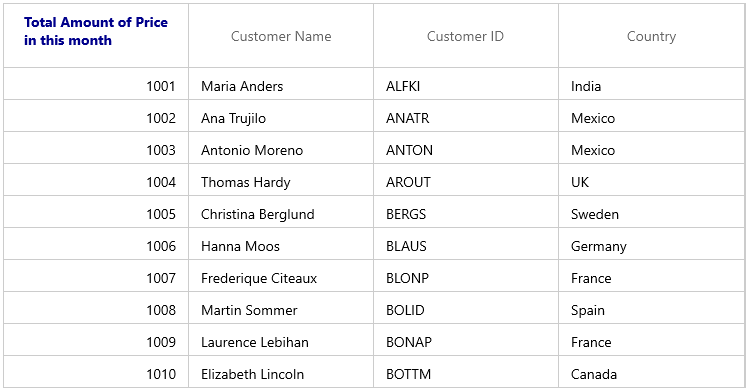
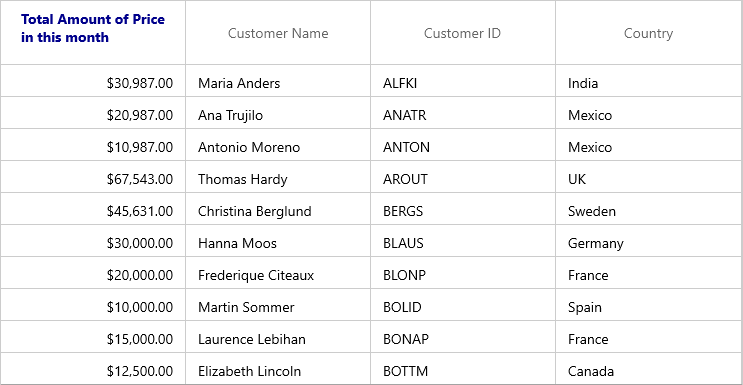
Modified the content and code changes

diff --git a/winui/DataGrid/Row-Height-Customization.md b/winui/DataGrid/Row-Height-Customization.md
@@ -84,7 +84,7 @@ You can change the row height in on-demand based on the row index or row data us
 {% highlight c# %}
 this.sfDataGrid.QueryRowHeight += SfDataGrid_QueryRowHeight;
 
-void dataGrid_QueryRowHeight(object sender, QueryRowHeightEventArgs e)
+void SfDataGrid_QueryRowHeight(object sender, QueryRowHeightEventArgs e)
 {
     if (e.RowIndex == 1) //Sets Height to the first row.
     {
@@ -101,7 +101,7 @@ void dataGrid_QueryRowHeight(object sender, QueryRowHeightEventArgs e)
 
 1. This event is not supported for `DetailsViewGrid`.
 
-## Fit the Row Height based on its content
+## Fit the row height based on its content
 
 You can fit the row height based on its content in `QueryRowHeight` event handler using [GetAutoRowHeight](https://help.syncfusion.com/cr/winui/Syncfusion.UI.Xaml.DataGrid.GridColumnSizer.html#Syncfusion_UI_Xaml_DataGrid_GridColumnSizer_GetAutoRowHeight_System_Int32_Syncfusion_UI_Xaml_DataGrid_GridRowSizingOptions_System_Double__System_Boolean_) method. This improves the readability of the content and it does not affect the loading performance of the SfDataGrid as the `QueryRowHeight` event triggered for rows in on-demand.
 
@@ -158,7 +158,7 @@ Here, row heights are customized based on the large text content.
  
 2. [CanIncludeHiddenColumns](https://help.syncfusion.com/cr/winui/Syncfusion.UI.Xaml.DataGrid.GridRowSizingOptions.html#Syncfusion_UI_Xaml_DataGrid_GridRowSizingOptions_CanIncludeHiddenColumns) – If you want to consider the hidden columns while calculating row height, you can set `GridRowSizingOptions.CanIncludeHiddenColumns` as `true`.
 
-### Calculate Height based on certain columns
+### Calculate height based on certain columns
 
 You can exclude columns from row height calculation using `GridRowSizingOptions.ExcludeColumns`. This will helps to reduce the count of loop run for height calculation for better performance.
 
@@ -194,9 +194,9 @@ private void SfDataGrid_QueryRowHeight(object sender, QueryRowHeightEventArgs e)
 
 Here `CustomerID` and `Country` columns are excluded from height calculation and the row height is calculated based on `CustomerName` column only.
  
-![AutoFit RowHeight for specific columns Image in WinUI datagrid](Row-Height-Customization_images/Row-Height-Customization_img4.png)
+![AutoFit RowHeight for specific columns Image in WinUI DataGrid](Row-Height-Customization_images/Row-Height-Customization_img4.png)
 
-## Reset Row Height at runtime
+## Reset row height at runtime
 
 You can reset height of the particular or all rows in View at runtime to get the updated height from `QueryRowHeight` event handler using below methods. You have to call [InvalidateMeasureInfo](https://help.syncfusion.com/cr/winui/Syncfusion.UI.Xaml.DataGrid.VisualContainer.html#Syncfusion_UI_Xaml_DataGrid_VisualContainer_InvalidateMeasureInfo) method of `VisualContainer` to refresh the View.
  
@@ -227,55 +227,17 @@ visualContainer.InvalidateMeasureInfo();
 {% endhighlight %}
 {% endtabs %}
 
-
-### Update Row Height while editing
-
-You can set the height of the row based on the content after editing by refreshing the row height in [SfDataGrid.CurrentCellEndEdit](https://help.syncfusion.com/cr/winui/Syncfusion.UI.Xaml.DataGrid.SfDataGrid.html#Syncfusion_UI_Xaml_DataGrid_SfDataGrid_CurrentCellEndEdit) event.
-
-You can call the `InvalidateRowHeight` method in `CurrentCellEndEdit` event to reset the particular row height. Then call the `InvalidateMeasureInfo` method of `VisualContainer` to refresh the view. Now the `QueryRowHeight` event is called again for edited row alone and row height is calculated based on edited content.
-
- 
-{% tabs %}
-{% highlight c# %}
-
-GridRowSizingOptions gridRowResizingOptions = new GridRowSizingOptions();
-
-//To get the calculated height from GetAutoRowHeight method.    
-double autoHeight = double.NaN;        
-
-this.sfDataGrid.QueryRowHeight += SfDataGrid_QueryRowHeight;
-this.sfDataGrid.CurrentCellEndEdit += SfDataGrid_CurrentCellEndEdit;
-
-private void SfDataGrid_CurrentCellEndEdit(object sender, CurrentCellEndEditEventArgs e)
-{
-    var visualContainer = this.sfDataGrid.GetType().GetProperty("VisualContainer", System.Reflection.BindingFlags.Instance | System.Reflection.BindingFlags.NonPublic).GetValue(this.sfDataGrid) as VisualContainer;
-    sfDataGrid.InvalidateRowHeight(e.RowColumnIndex.RowIndex);
-    visualContainer.InvalidateMeasureInfo();
-}
-
-private void SfDataGrid_QueryRowHeight(object sender, QueryRowHeightEventArgs e)
-{
-    if (this.sfDataGrid.GridColumnSizer.GetAutoRowHeight(e.RowIndex, gridRowResizingOptions, out autoHeight))
-    {
-        if (autoHeight > 32)
-        {
-            e.Height = autoHeight;
-            e.Handled = true;
-        }
-    }
-}   
-{% endhighlight %}
-{% endtabs %}
-
-
-## Change HeaderRow Height based on its Content
+## Changes header row height based on its Content
 
 By default, auto height is supported for the headers is `QueryRowHeight` event. If you want to set the auto height to header row alone, you can use the [GetHeaderIndex](https://help.syncfusion.com/cr/winui/Syncfusion.UI.Xaml.DataGrid.GridIndexResolver.html#Syncfusion_UI_Xaml_DataGrid_GridIndexResolver_GetHeaderIndex_Syncfusion_UI_Xaml_DataGrid_SfDataGrid_) method to decide whether the row index is header or not in `QueryRowHeight` event.
 
 
 {% tabs %}
 {% highlight xaml %}
+xmlns:core="using:Syncfusion.UI.Xaml.Core"
+
 <Page.Resources>
+    <core:StringFormatConverter x:Key="stringFormatConverter" />
     <DataTemplate x:Key="headerTemplate">
         <TextBlock Height="50"
                     FontWeight="Bold"
@@ -287,7 +249,10 @@ By default, auto height is supported for the headers is `QueryRowHeight` event. 
 
 <syncfusion:SfDataGrid x:Name="sfDataGrid" ItemsSource="{Binding Orders}">
     <syncfusion:SfDataGrid.Columns>
-        <syncfusion:GridTextColumn HeaderTemplate="{StaticResource headerTemplate}" MappingName="TotalPrice" />
+        <syncfusion:GridTextColumn MappingName="TotalPrice" DisplayBinding="{Binding Path=TotalPrice, Converter={StaticResource stringFormatConverter}, ConverterParameter='{}{0:C}'}" TextAlignment="Right" HeaderTemplate="{StaticResource headerTemplate}" TextWrapping="Wrap" />
+        <syncfusion:GridTextColumn MappingName="CustomerName" HeaderText="Customer Name" />
+        <syncfusion:GridTextColumn MappingName="CustomerID" HeaderText="Customer ID" />
+        <syncfusion:GridTextColumn MappingName="Country" />
     </syncfusion:SfDataGrid.Columns>
 </syncfusion:SfDataGrid>
 {% endhighlight %}
@@ -318,7 +283,7 @@ private void SfDataGrid_QueryRowHeight(object sender, QueryRowHeightEventArgs e)
 
 ![Customized HeaderRowHeight Image in WinUI DataGrid](Row-Height-Customization_images/Row-Height-Customization_img5.png)
 
-## Change StackedHeaderRow Height based on its content
+## Change StackedHeaderRow height based on its content
 
 By default, auto height is supported for [StackedHeaderRows](https://help.syncfusion.com/cr/winui/Syncfusion.UI.Xaml.Grids.StackedHeaderRows.html) in `QueryRowHeight` event. You can also set the auto height to the StackedHeaderRows alone using `QueryRowHeight` event by checking the row index with StackedHeaderRows count.
 Also you can wrap stacked header text by writing style of TargetType [GridStackedHeaderCellControl](https://help.syncfusion.com/cr/winui/Syncfusion.UI.Xaml.DataGrid.GridStackedHeaderCellControl.html) and set the `TextWrapping` as Wrap as below,
@@ -373,7 +338,7 @@ private void SfDataGrid_QueryRowHeight(object sender, QueryRowHeightEventArgs e)
 
 ![Customized StackedHeaderRow height Image in WinUI DataGrid](Row-Height-Customization_images/Row-Height-Customization_img6.png)
 
-## Change TableSummaryRow Height
+## Change TableSummaryRow height
 
 You can change the table summary row height by using `QueryRowHeight` event. You can use [IsTableSummaryIndex](https://help.syncfusion.com/cr/winui/Syncfusion.UI.Xaml.DataGrid.GridIndexResolver.html#Syncfusion_UI_Xaml_DataGrid_GridIndexResolver_IsTableSummaryIndex_Syncfusion_UI_Xaml_DataGrid_SfDataGrid_System_Int32_) extension method to identify whether the row is table summary or not by passing row index. 
 

diff --git a/winui/DataGrid/Rows.md b/winui/DataGrid/Rows.md
@@ -134,7 +134,7 @@ You can display the corresponding row index in each row header, by customizing t
 
 ### Change the current row indicator
 
-You can change the CurrentRowIndicator in the row header by customizing the control template of `GridRowHeaderCell`.
+You can change the current row indicator in the row header by customizing the control template of `GridRowHeaderCell`.
 
 {% tabs %}
 {% highlight xaml %}
@@ -188,11 +188,11 @@ You can change the CurrentRowIndicator in the row header by customizing the cont
 
 Header row is present in top of the DataGrid which has column headers in it. Column header describes the caption to identify the column content.
 
-![Show the column header in Header row](Rows_images/Rows_img7.png)
+![Show the column header in Header row for WinUI DataGrid](Rows_images/Rows_img7.png)
 
 You can change the header row height by setting [SfDataGrid.HeaderRowHeight](https://help.syncfusion.com/cr/winui/Syncfusion.UI.Xaml.Grids.SfGridBase.html#Syncfusion_UI_Xaml_Grids_SfGridBase_HeaderRowHeight) property.
 
-### Hiding Header row
+### Hiding header row
 
 You can hide the header row by setting `SfDataGrid.HeaderRowHeight` as `0` (zero).
 
@@ -279,7 +279,7 @@ Set the frozen columns in <kbd>right side</kbd> of the SfDataGrid.
 <syncfusion:SfDataGrid x:Name="sfDataGrid"
                        FrozenFooterColumnCount="1"
                        FrozenColumnCount="1"
-                       FrozenRowsCount="2"                       
+                       FrozenRowsCount="2"
                        FrozenFooterRowsCount="3"
                        ItemsSource="{Binding Orders}" />
 {% endhighlight %}
